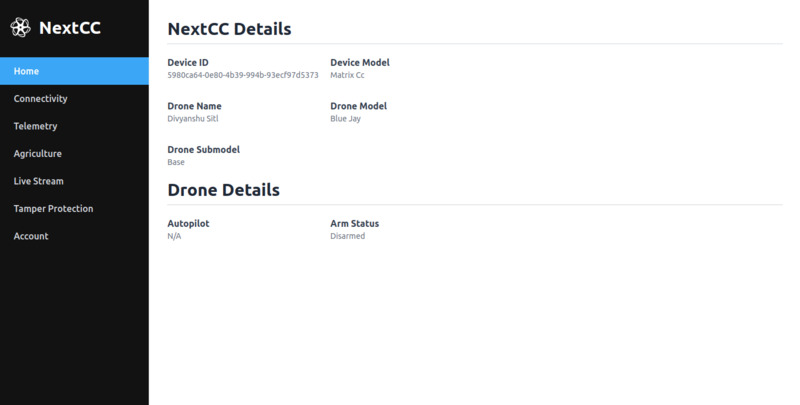
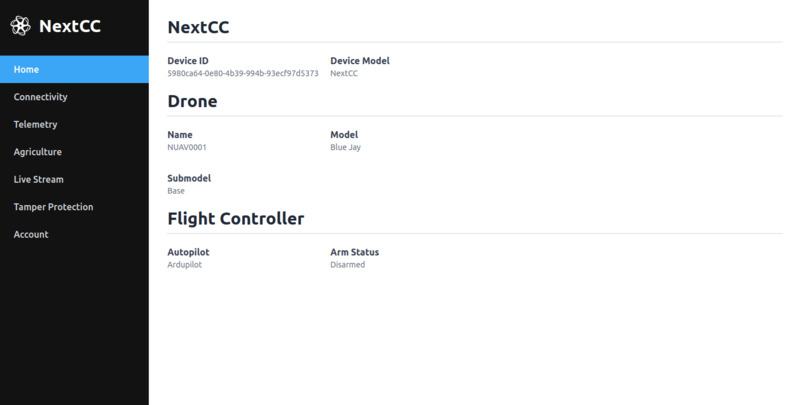
Update images

diff --git a/docs/next-cc/agriculture.md b/docs/next-cc/agriculture.md
@@ -33,7 +33,7 @@ A flow meter has three pins, i.e., VCC, GND and signal.
 
 ![Next CC](./img/agriculture-next-cc.png)
 
-![Port](./img/agriculture-port.jpg)
+![Port](./img/agriculture-port.png)
 
 ![Pin Out](./img/agriculture-pin-out.png)
 
@@ -49,7 +49,7 @@ the `Agriculture` section.
 - Click the `Update` button to save the settings.
 - Restart the drone.
 
-![Dashboard](./img/agriculture-dashboard.png)
+![Dashboard](./img/agriculture-dashboard.jpg)
 
 ## Calibration
 

diff --git a/docs/next-cc/dashboard-home.md b/docs/next-cc/dashboard-home.md
@@ -3,3 +3,13 @@ sidebar_position: 2
 ---
 
 # Dashboard Home
+
+The home page lists some important information related to the NextCC and the flight controller it is connected to.
+
+![Dashboard Home](./img/dashboard-home.jpg)
+
+## NextCC Details
+
+- `Device ID`: The unique NextCC hardware ID.
+- `Device Model`: The model name of the NextCC.
+- `Drone Name`:
